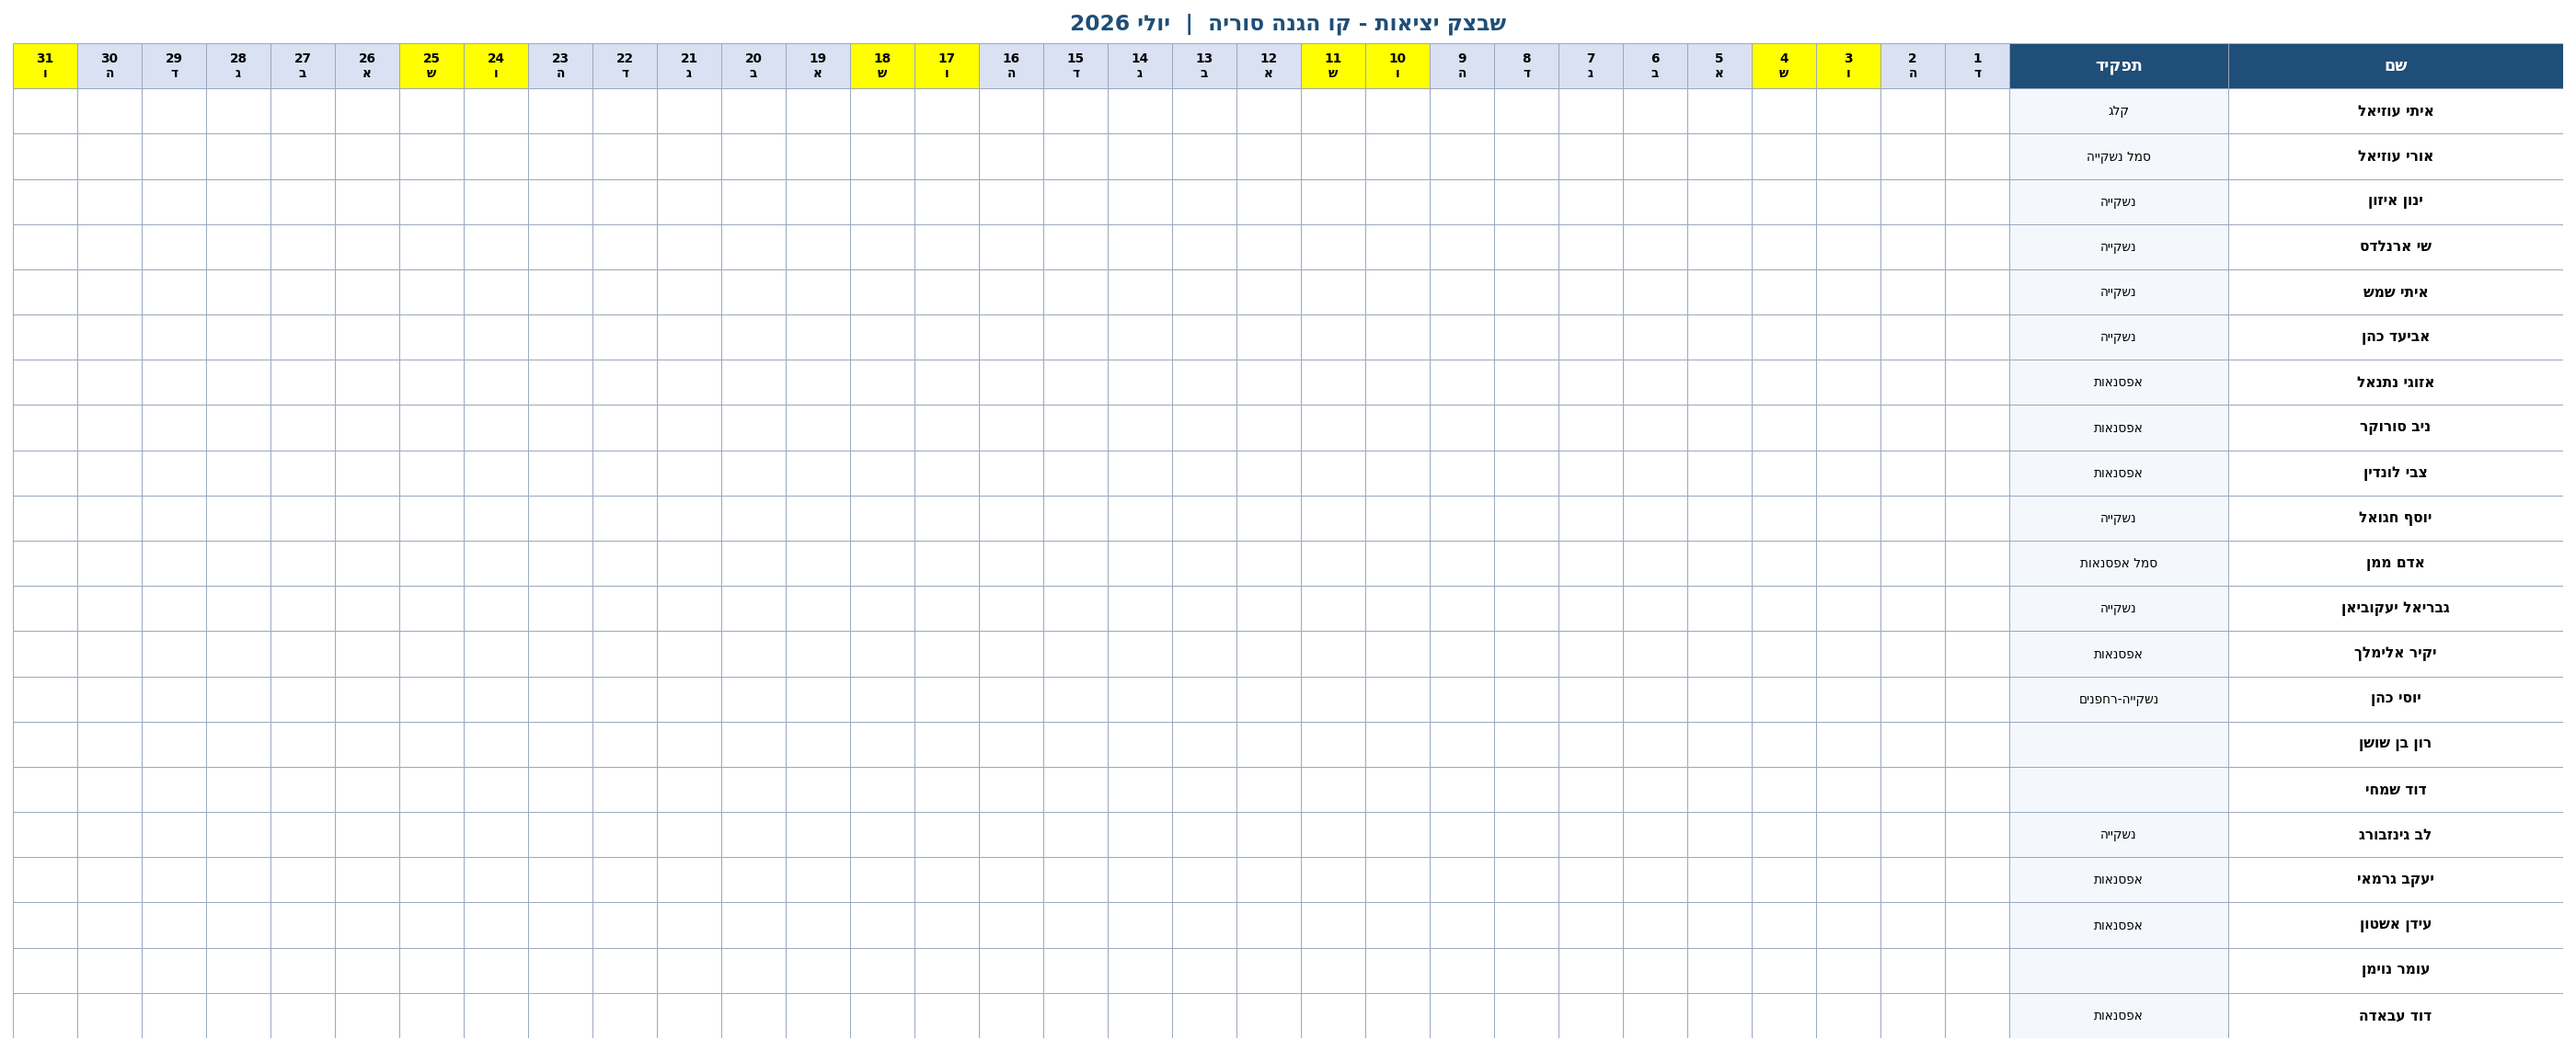
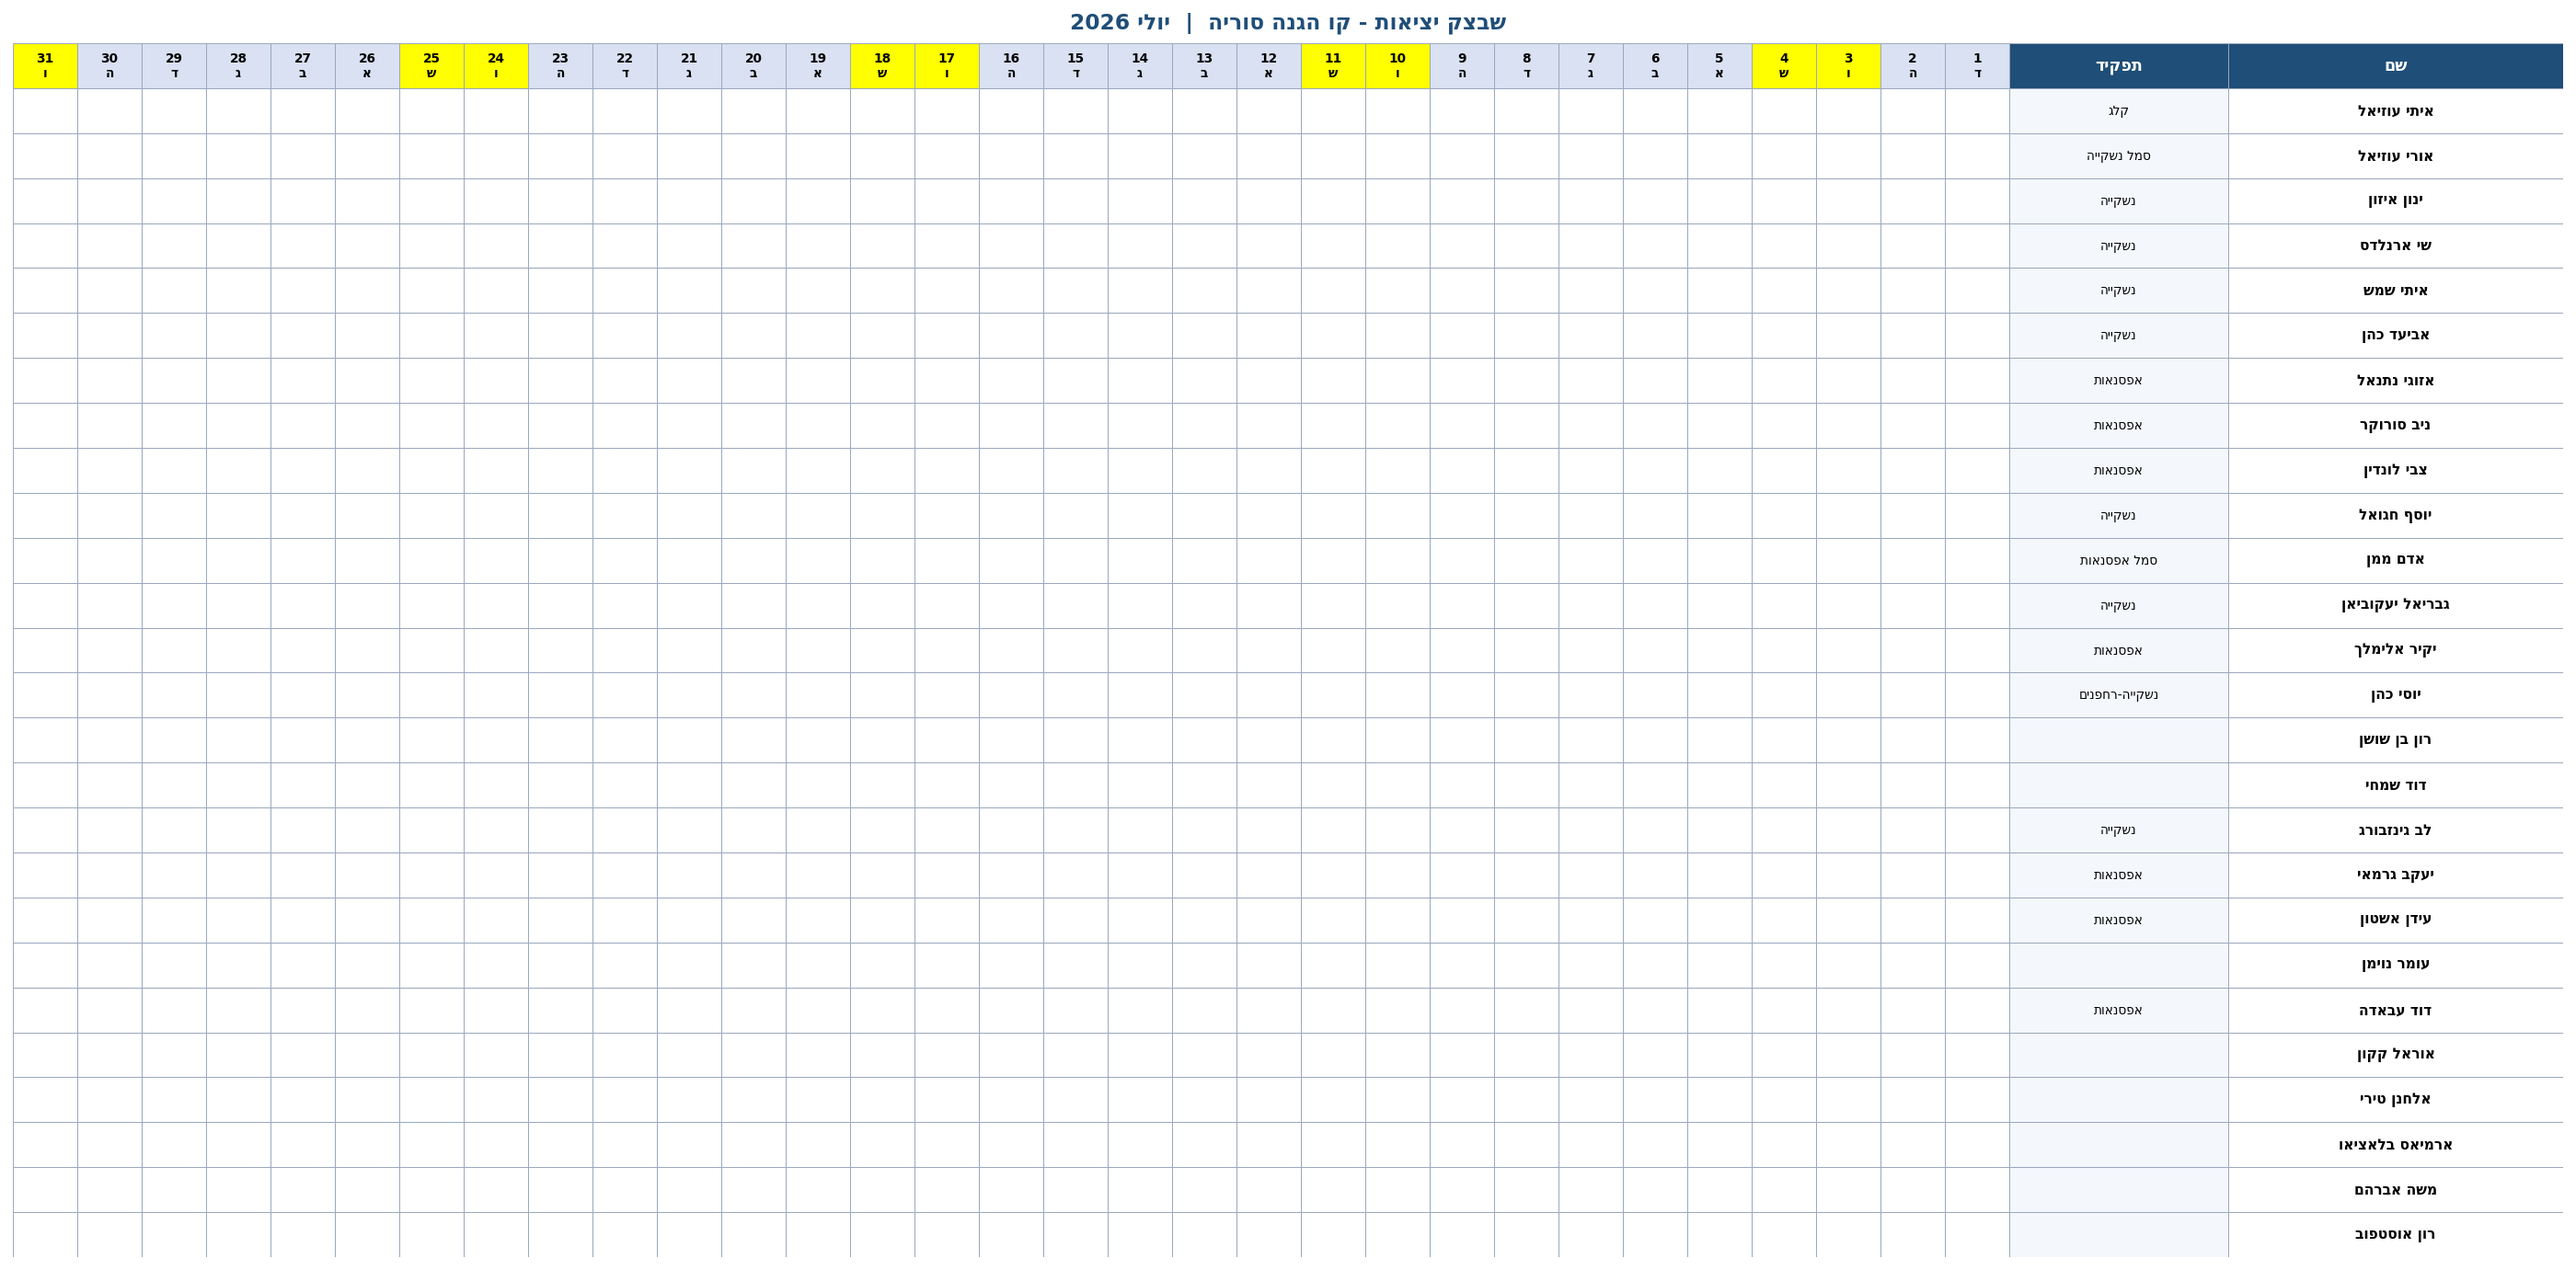
Add five soldiers to the roster
https://claude.ai/code/session_01KNfHFGm3BZAV2u3TfGKXLF

diff --git a/render_preview.py b/render_preview.py
@@ -29,6 +29,9 @@ SOLDIERS = [
     ("לב גינזבורג", "נשקייה"), ("יעקב גרמאי", "אפסנאות"),
     ("עידן אשטון", "אפסנאות"), ("עומר נוימן", ""),
     ("דוד עבאדה", "אפסנאות"),
+    ("אוראל קקון", ""), ("אלחנן טירי", ""),
+    ("ארמיאס בלאציאו", ""), ("משה אברהם", ""),
+    ("רון אוסטפוב", ""),
 ]
 HEB_DOW = {6: "א", 0: "ב", 1: "ג", 2: "ד", 3: "ה", 4: "ו", 5: "ש"}
 HEB_MONTH = {6: "יוני", 7: "יולי", 8: "אוגוסט", 9: "ספטמבר"}

diff --git a/build_roster.py b/build_roster.py
@@ -46,6 +46,9 @@ SOLDIERS = [
     ("לב גינזבורג", "נשקייה"), ("יעקב גרמאי", "אפסנאות"),
     ("עידן אשטון", "אפסנאות"), ("עומר נוימן", ""),
     ("דוד עבאדה", "אפסנאות"),
+    ("אוראל קקון", ""), ("אלחנן טירי", ""),
+    ("ארמיאס בלאציאו", ""), ("משה אברהם", ""),
+    ("רון אוסטפוב", ""),
 ]
 
 # ספי מצבה (ברירת מחדל - ניתן לעריכה בתאי ההגדרות בקובץ)
